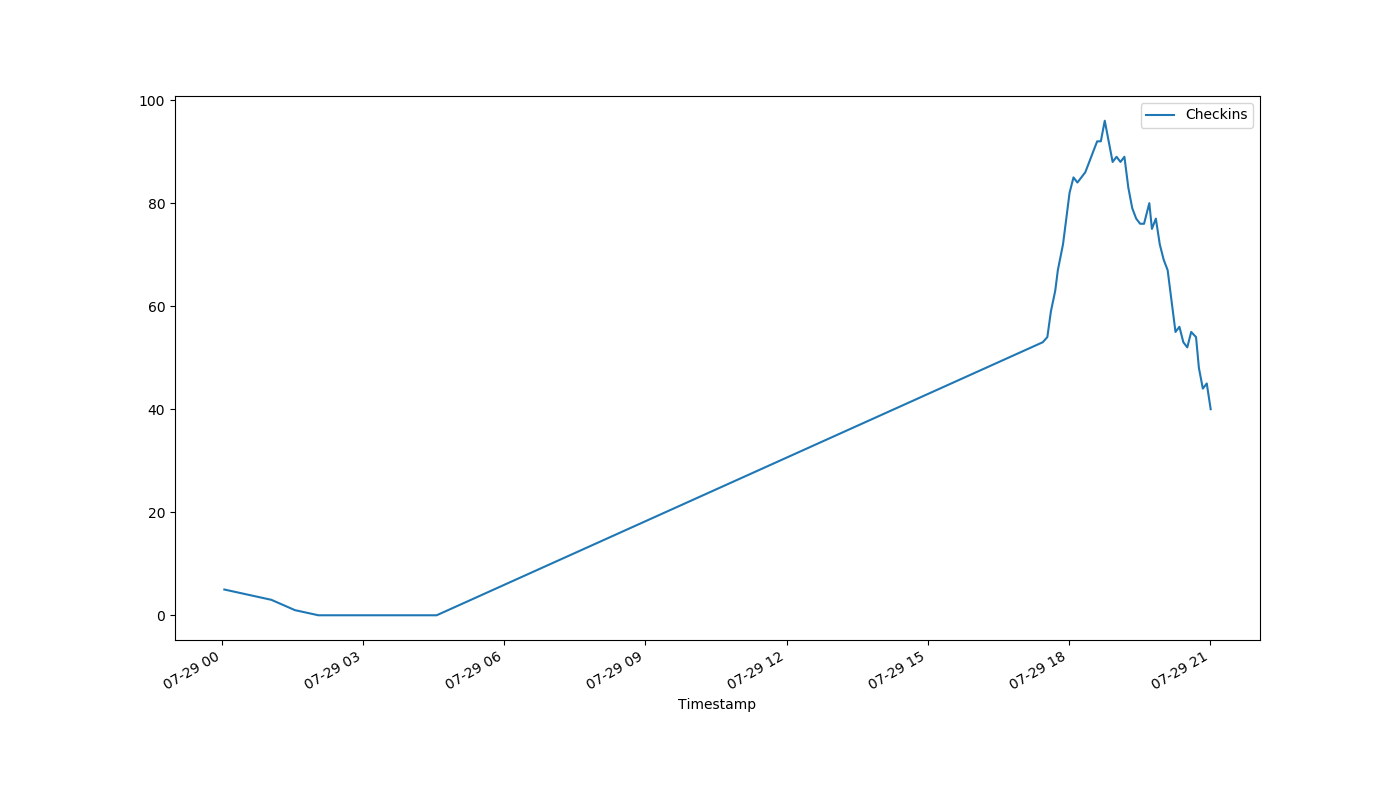
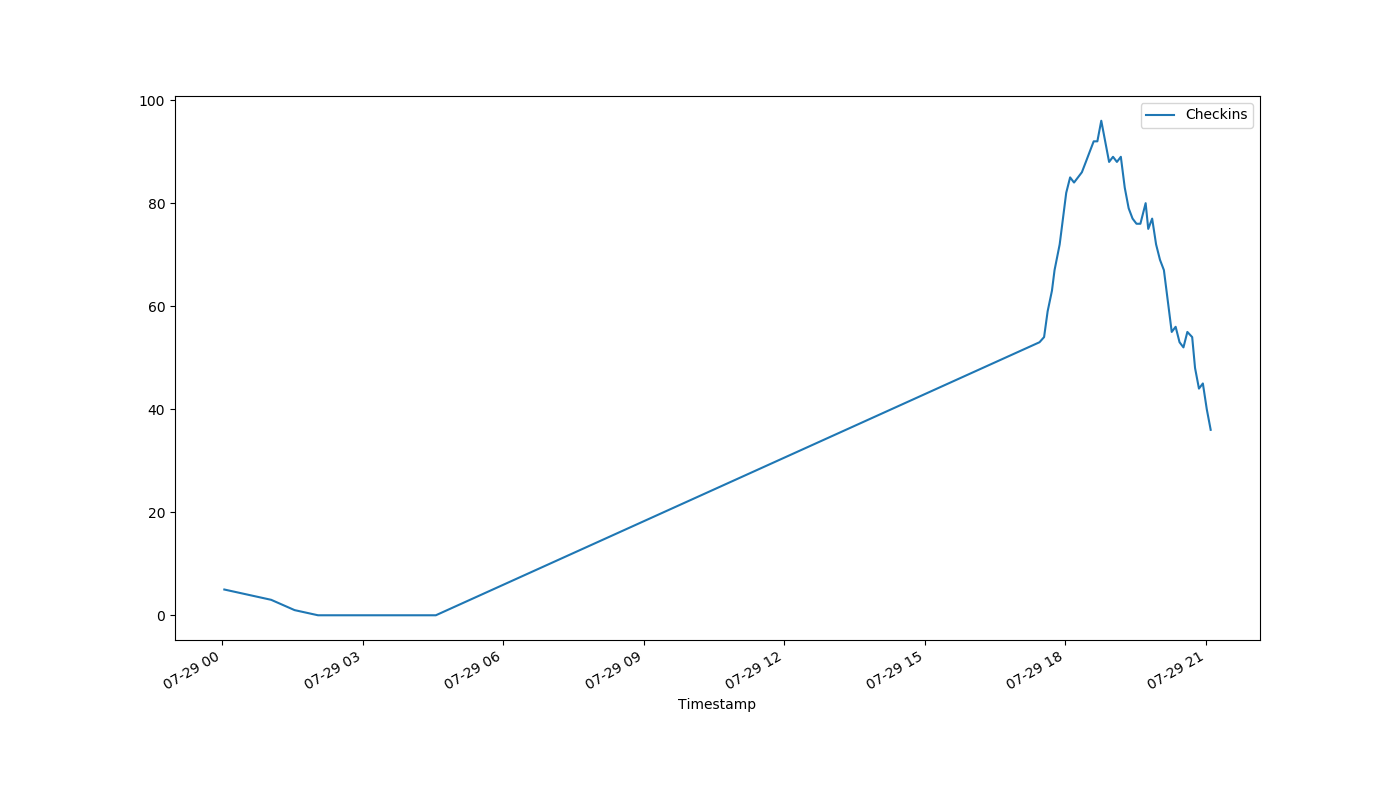
auto-Jul-29-21:08:52

diff --git a/index.html b/index.html
@@ -1,1 +1,1 @@
-<!DOCTYPE html><html><head><meta http-equiv="refresh" content="30"><link rel='stylesheet' href='holmcurrent.css'></head><body><p id='count'>40</p><div id='graph-wrap'><img id='graph' src='holmgraph-Jul-29.png'></div><p id='updated'>Last updated 21:02:07 / 21:01:09</p></body></html>
+<!DOCTYPE html><html><head><meta http-equiv="refresh" content="30"><link rel='stylesheet' href='holmcurrent.css'></head><body><p id='count'>36</p><div id='graph-wrap'><img id='graph' src='holmgraph-Jul-29.png'></div><p id='updated'>Last updated 21:07:07 / 21:06:09</p></body></html>
